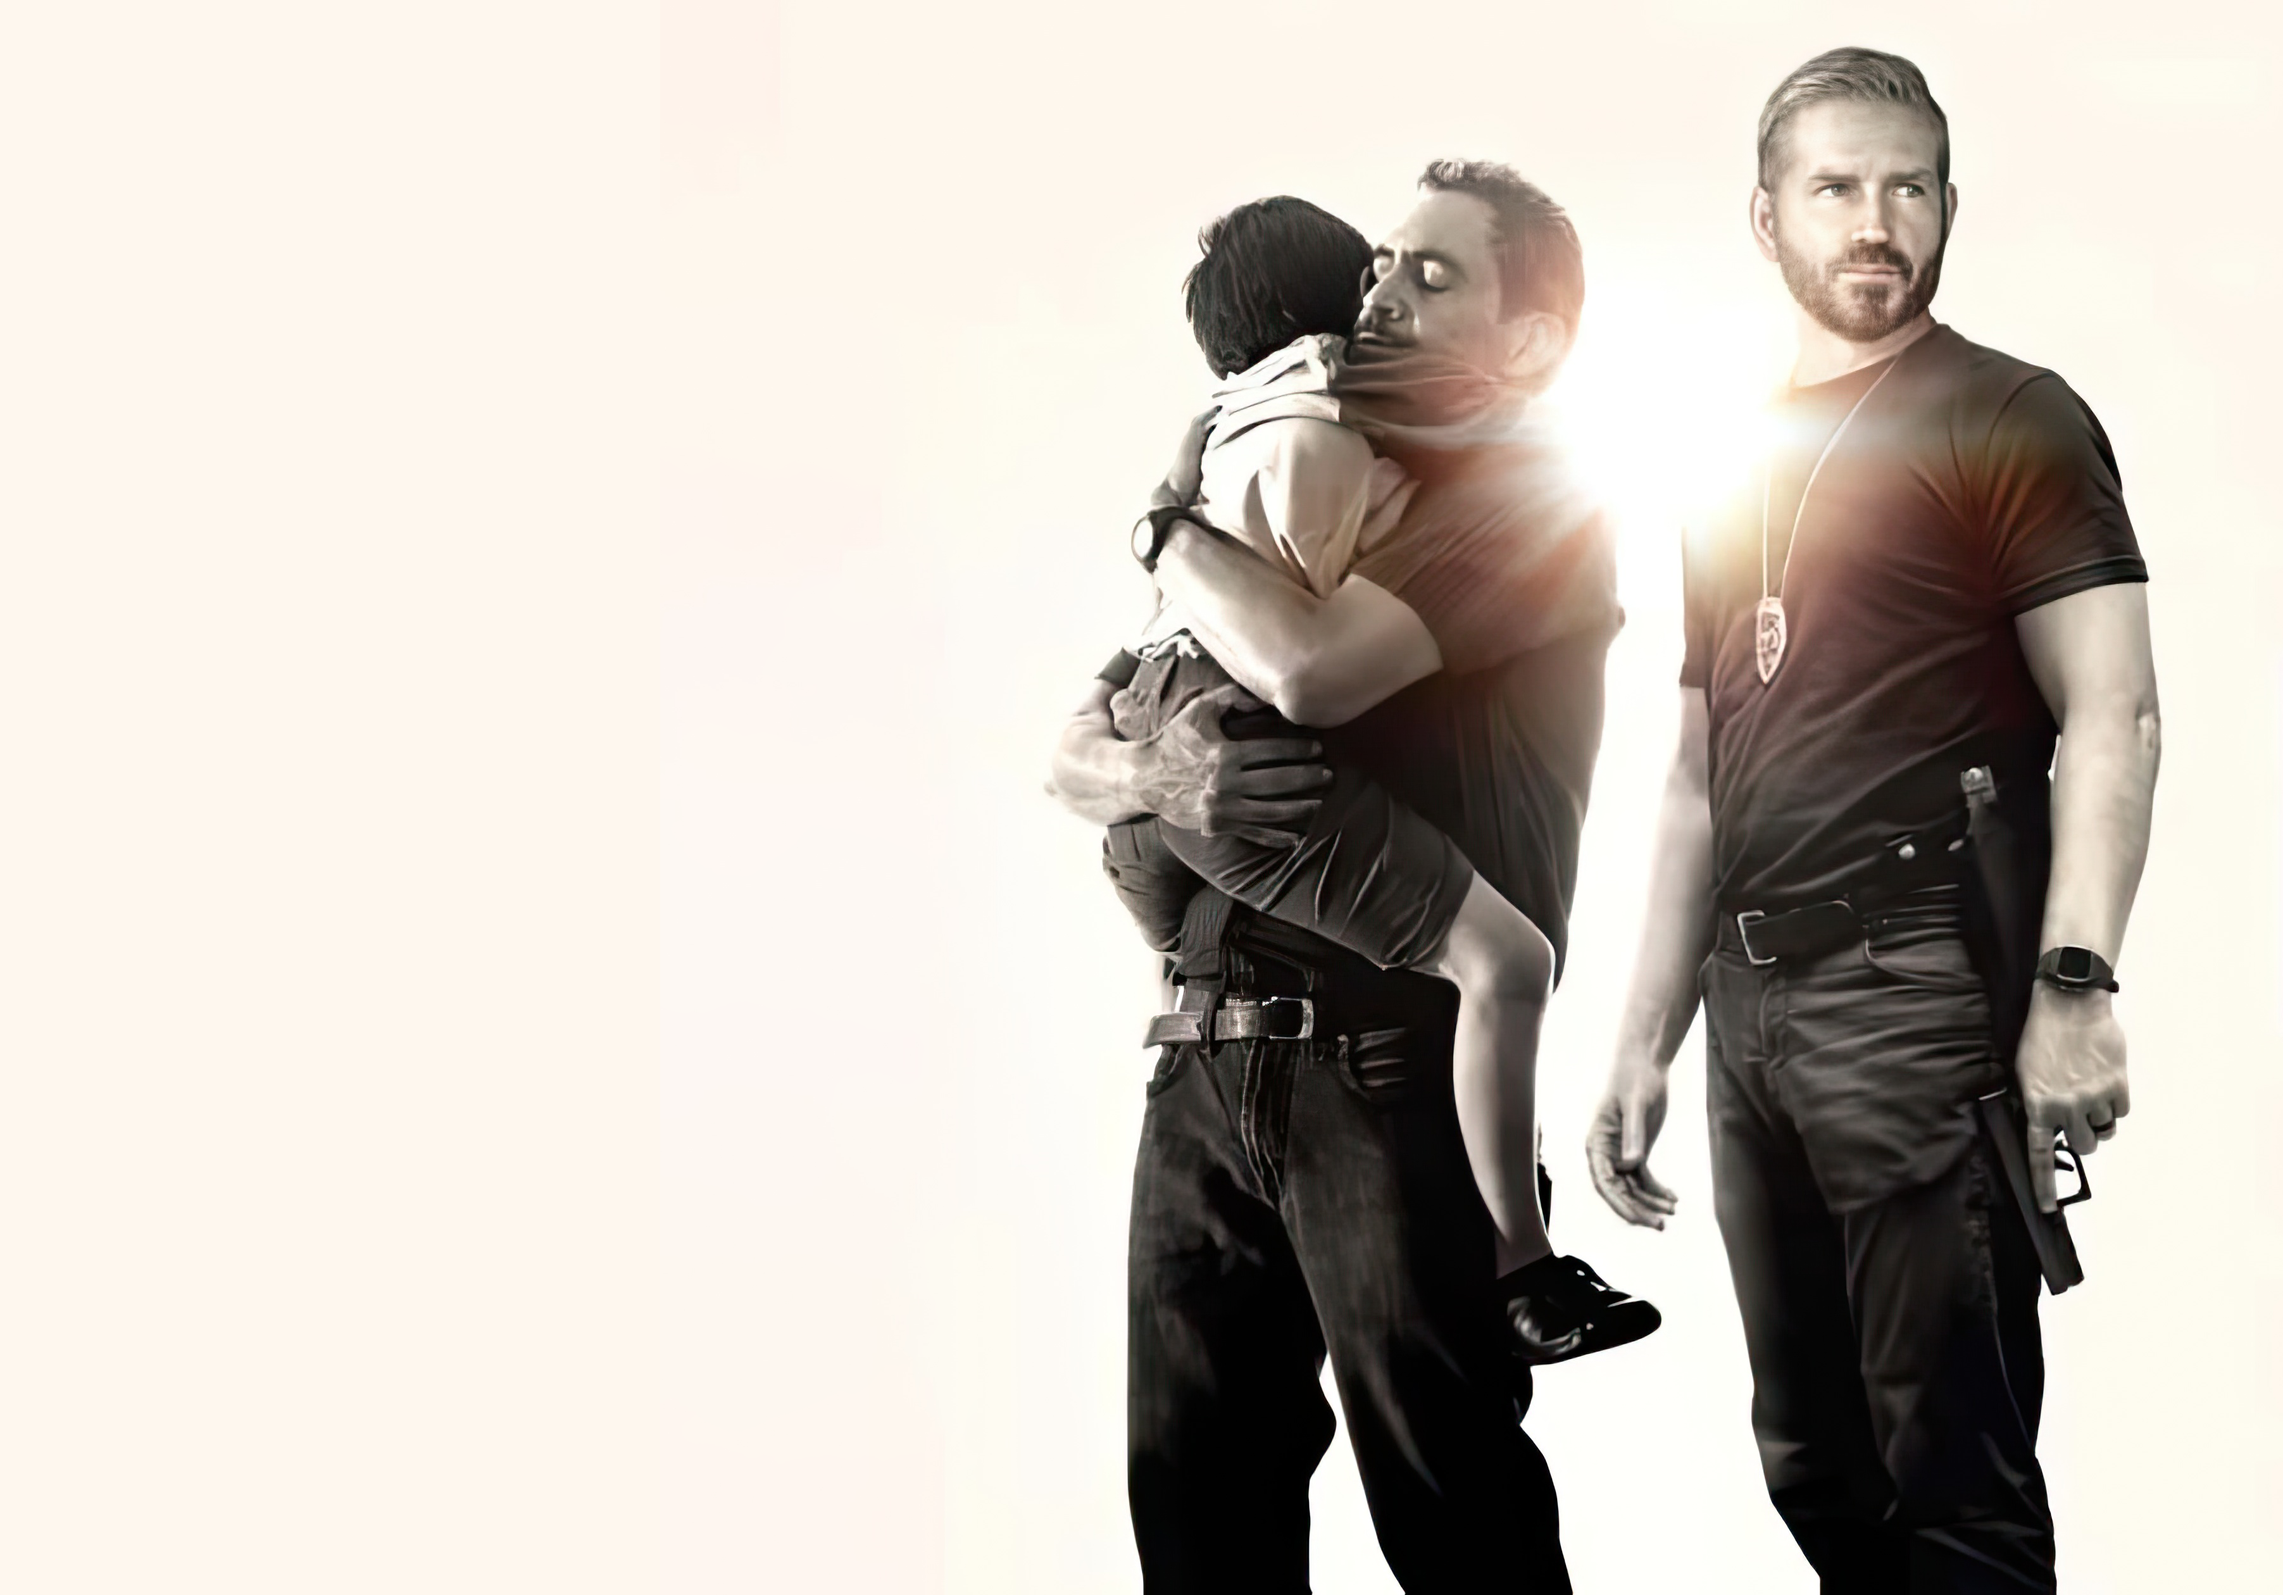
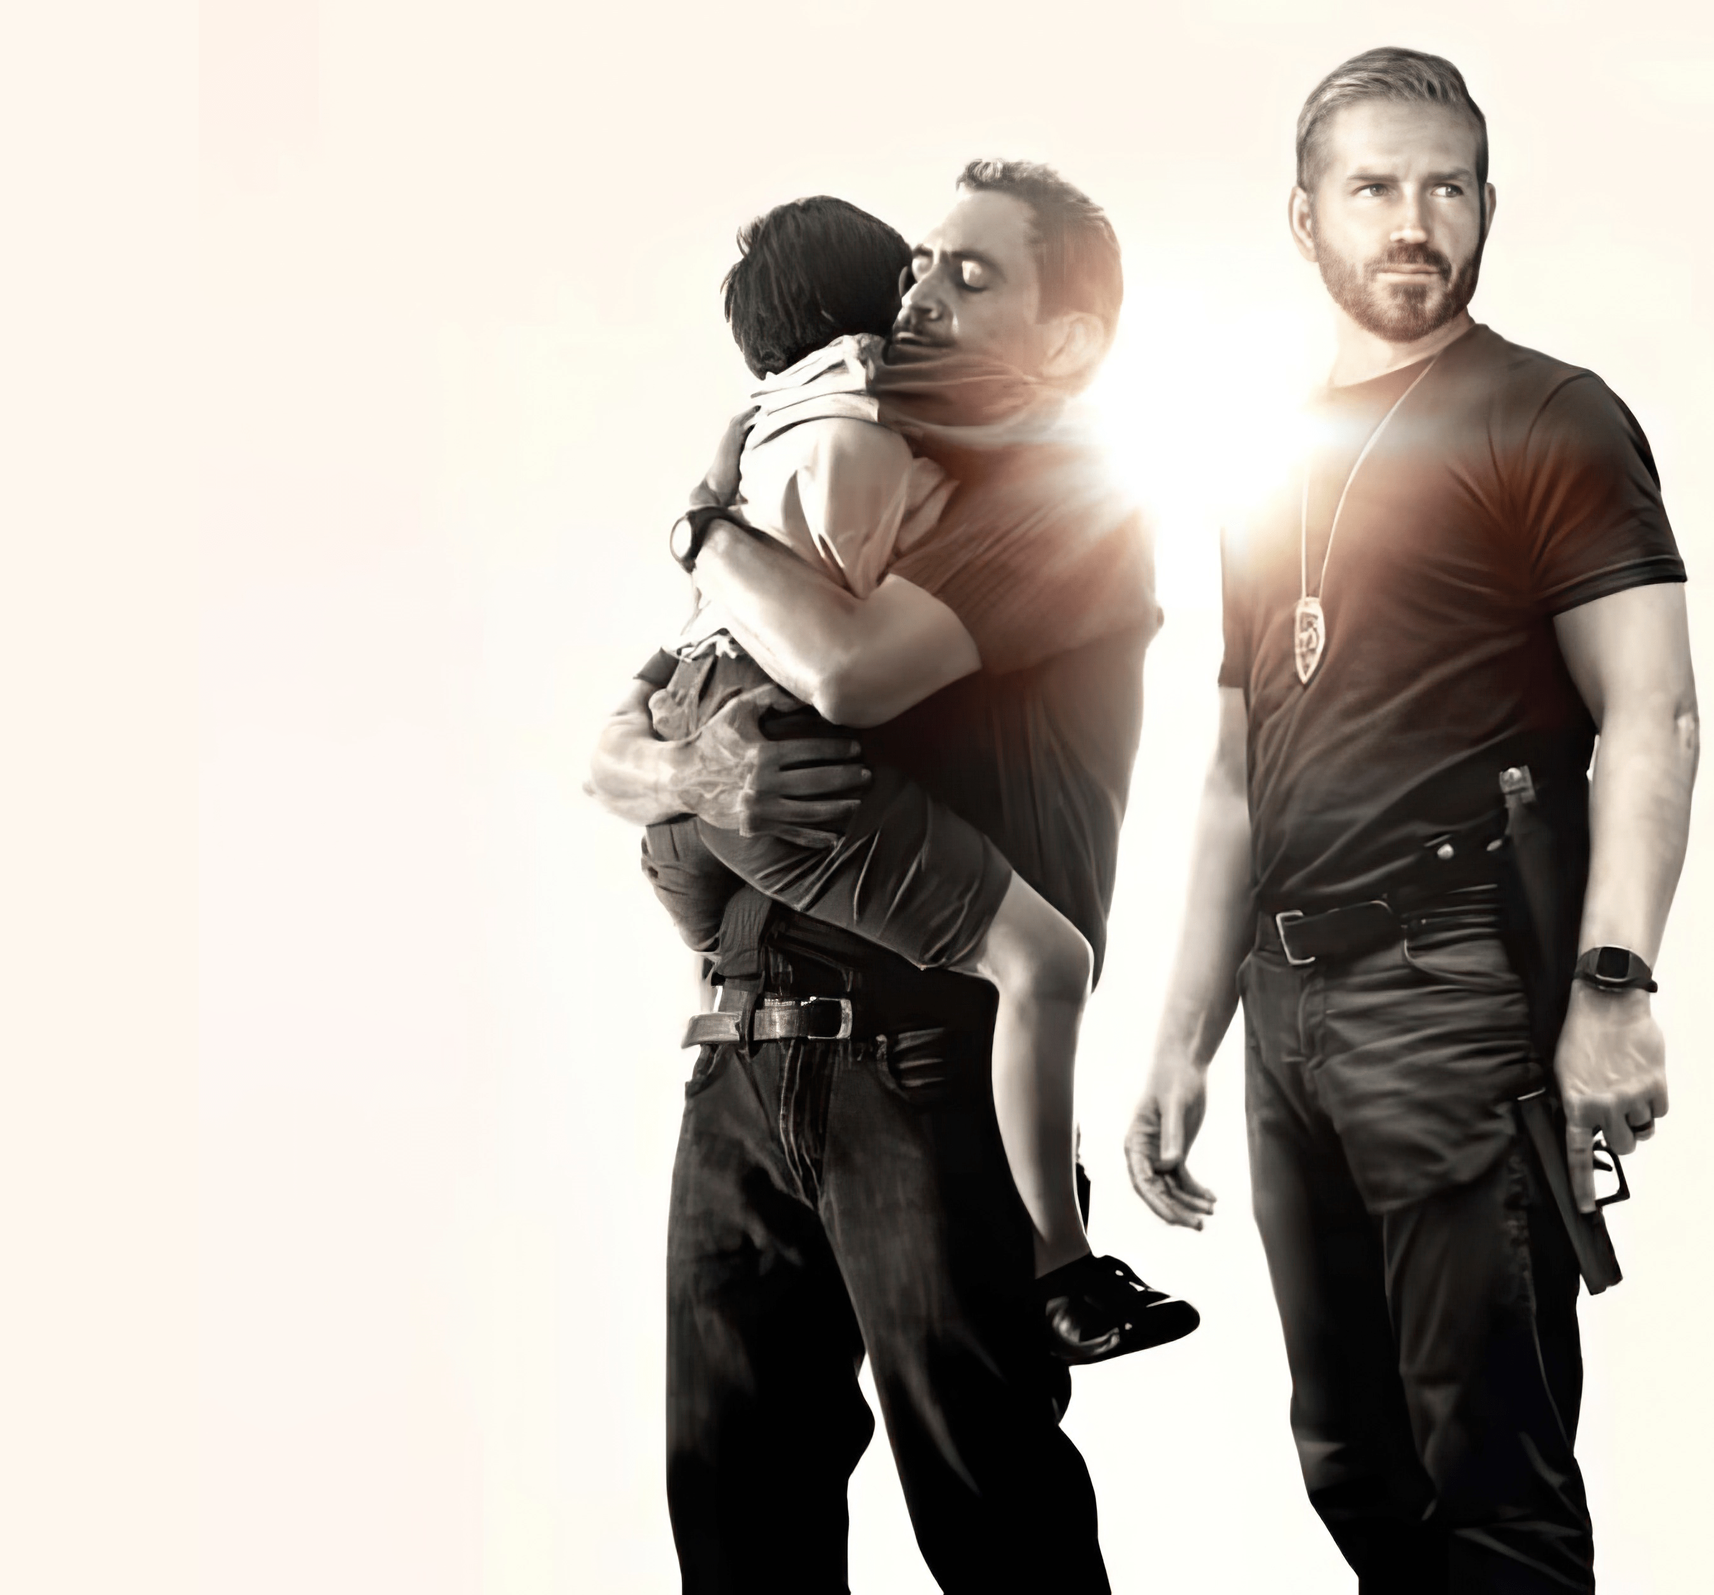
update

diff --git a/src/components/Navigation.jsx b/src/components/Navigation.jsx
@@ -43,7 +43,7 @@ const Navigation = ({ activeLink, setActiveLink }) => {
                                         <li onClick={() => handleClick("about")} className="cursor-pointer"> <IoIosPerson size={20} /></li>
                                     )}
 
-                                    <li><Link to="https://maps.app.goo.gl/SCJtM59mEva5cvZTA" target="_blank" rel="noreferrer noopener" ><FaLocationDot size={20} /></Link></li>
+                                    <li><Link to="https://maps.app.goo.gl/WtjfPXW8wPCoK2vm7" target="_blank" rel="noreferrer noopener" ><FaLocationDot size={20} /></Link></li>
 
 
                                     <li><Link to="https://scef-international.org/" target="_blank" rel="noreferrer noopener"><IoGridSharp size={20} /></Link></li>
@@ -87,7 +87,7 @@ const Navigation = ({ activeLink, setActiveLink }) => {
                                 </li>
                                 <li>
                                     <NavLink
-                                        to="https://maps.app.goo.gl/SCJtM59mEva5cvZTA" target="_blank" rel="noreferrer noopener"
+                                        to="https://maps.app.goo.gl/WtjfPXW8wPCoK2vm7" target="_blank" rel="noreferrer noopener"
                                         className="flex items-center gap-2"
                                     >
                                         Location <FaLocationDot />

diff --git a/src/components/Hero.jsx b/src/components/Hero.jsx
@@ -4,7 +4,7 @@
 // eslint-disable-next-line no-unused-vars
 import React, { useState } from "react";
 import "./Hero.css";
-import orphane from "../assets/poster.png";
+import orphane from "../assets/poster2.webp";
 import mobileorphane from "../assets/mobilescef.png";
 
 import circle from "../assets/circle.png";
@@ -129,7 +129,7 @@ const Hero = ({ activeLink }) => {
                     </div>
                     <div className="relative mt-12">
                         <img src={donate} alt="donate" className="w-[380px]" loading="lazy" />
-                        <div className="absolute top-[55px] left-[305px]">
+                        <div className="absolute top-[55px] small:left-[325px] left-[305px]">
                             <Link to='https://scef-international.org/become-godparent/' target="_blank" rel="noreferrer noopener" className="font-bold text-white text-[13px]">Donate</Link>
                         </div>
                         <div className="absolute top-[5px] left-[50px] ">

diff --git a/tailwind.config.js b/tailwind.config.js
@@ -12,6 +12,22 @@ export default {
       cardBackground: {
         'card-background': 'linear-gradient(to bottom, #4A4A55, #6C6C75, #B8A9A8)',
       },
+      screens: {
+        'msm': '360px',
+        'xsm': '375px',
+        'vsm': '393px',
+        'small': '430px',
+        'tablet': '570px',
+        'md': '768px',
+        'lg': '1024px',
+        'xl': '1280px',
+        'large': '1343px',
+        '2xl': '1536px',
+        'xxl': '1620px',
+        'vl': '1728px',
+        '3xl': '1800px',
+        '4xl': '1920px',
+      },
     },
   },
   plugins: [],

diff --git a/src/components/Hero.css b/src/components/Hero.css
@@ -3,10 +3,8 @@
     background-size: cover;
     width: 90%;
     height: 690px;
-    /* Adjust the height as needed */
     position: relative;
     overflow: hidden;
-    /* Ensures that overflow is hidden */
 }
 
 .masked-image {
@@ -14,6 +12,8 @@
     mask-image: url("../assets/herobg.png");
     border-radius: 30px;
     mask-size: cover;
+    width: 100%;
+    height: 100%;
     mask-position: center;
     mask-repeat: no-repeat;
     -webkit-mask-image: url("../assets/herobg.png");
